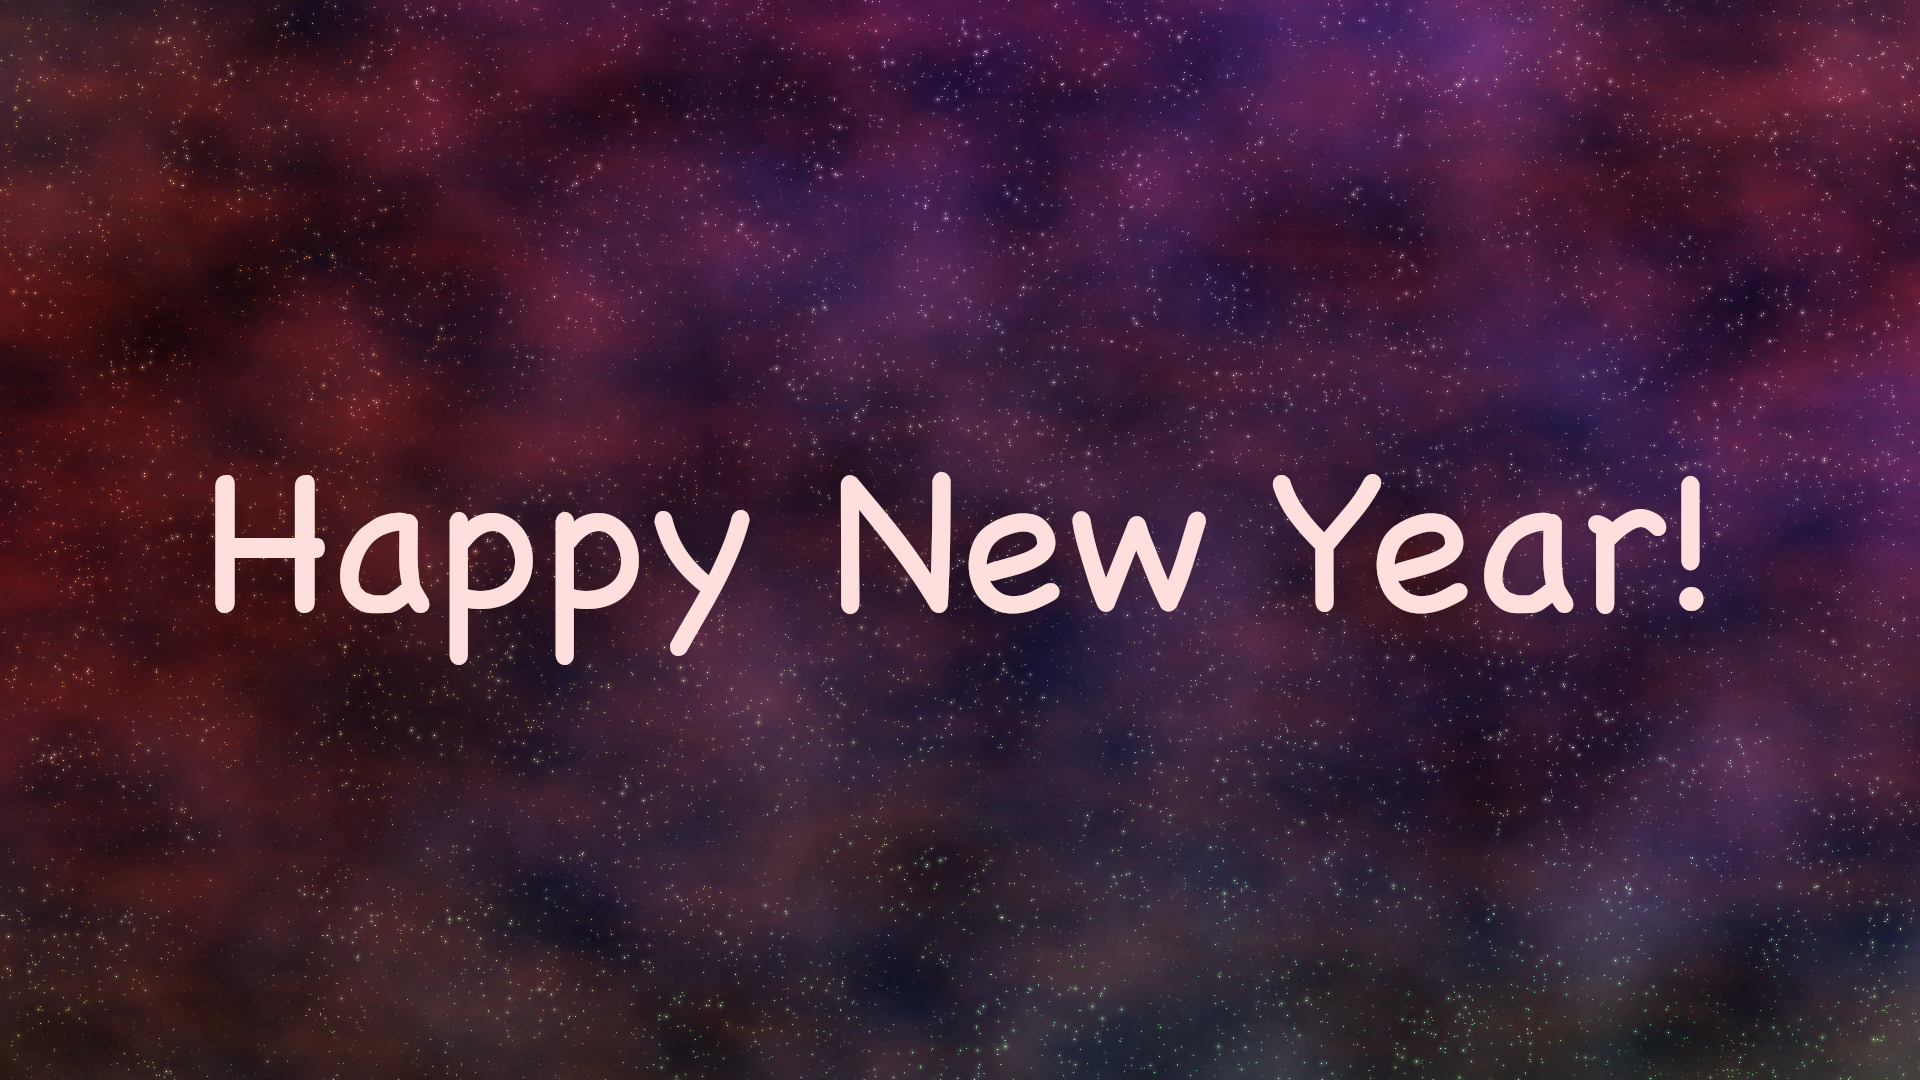
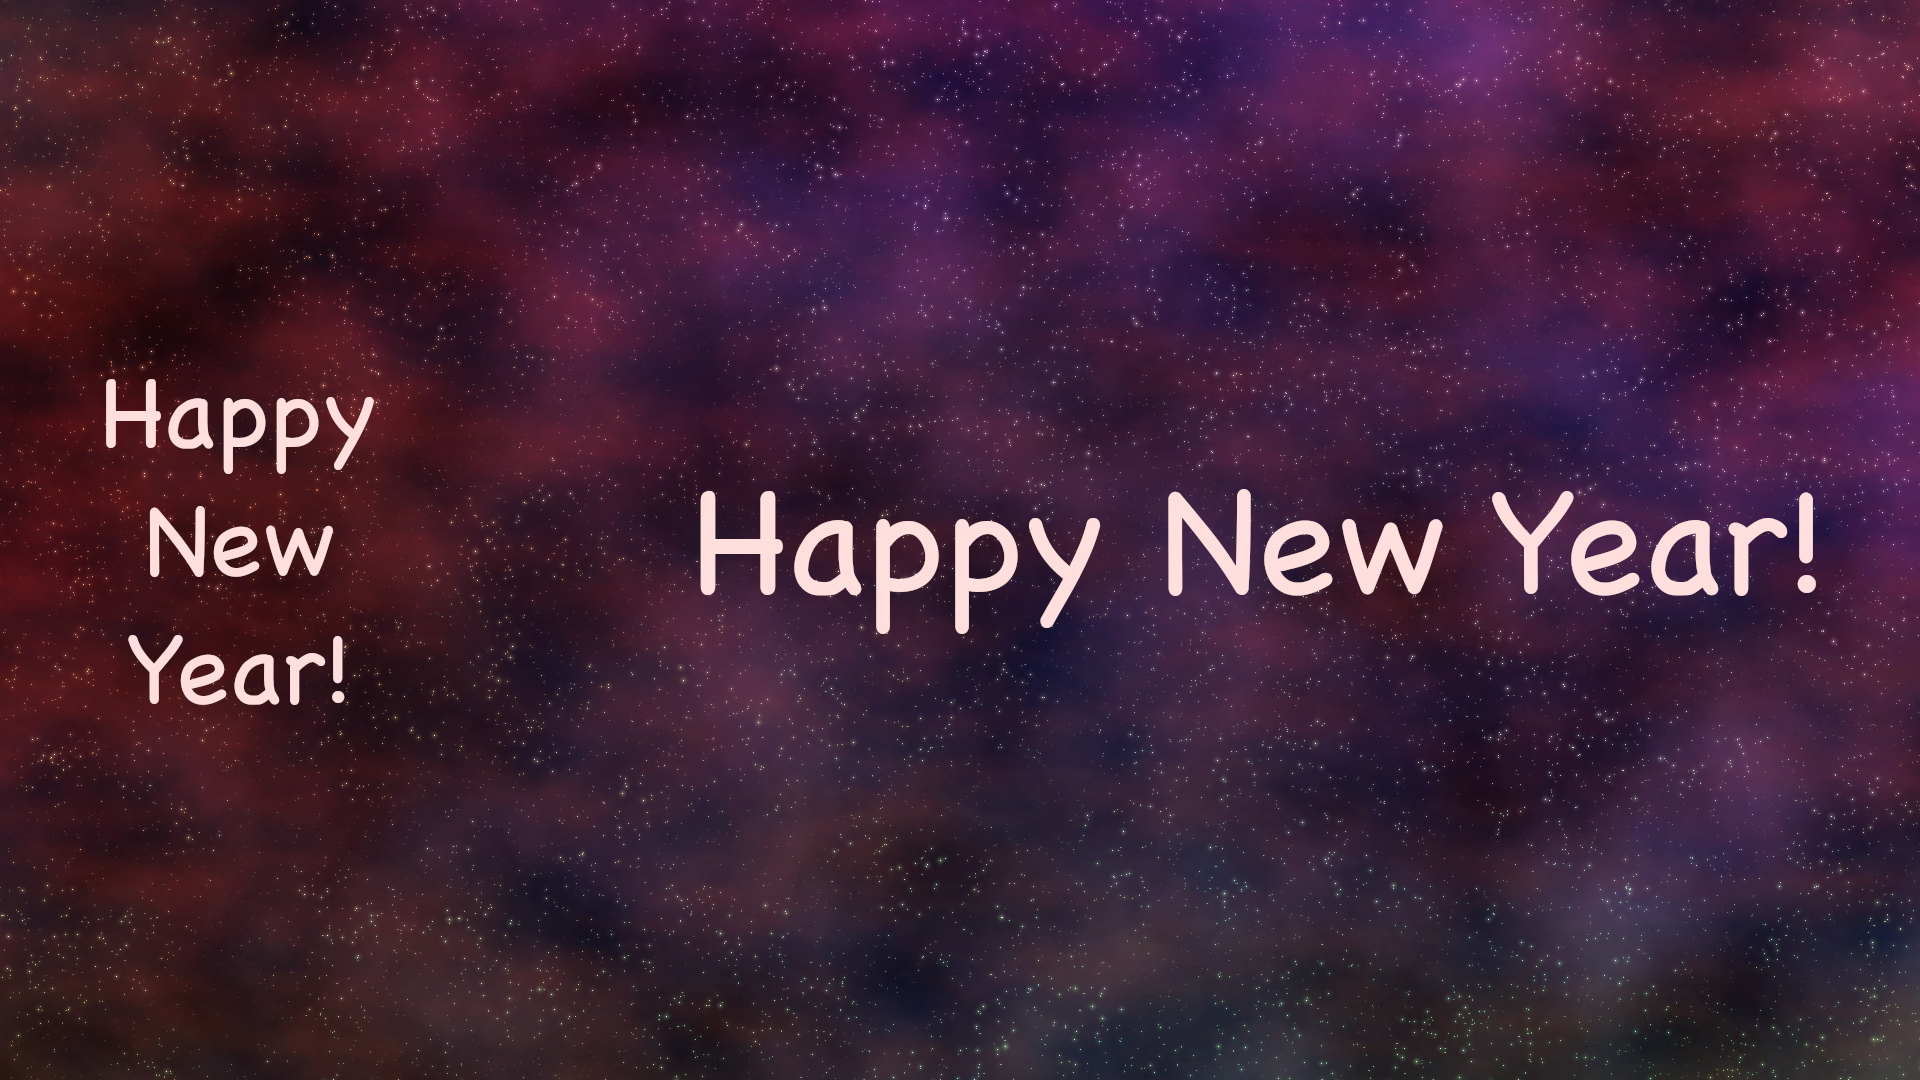
mobile fix again?

Changed region(s): [[0.0312, 0.3667, 0.9688, 0.6722]]

diff --git a/src/index.js b/src/index.js
@@ -44,8 +44,9 @@ function initializeBody() {
 
 	document.body.style.backgroundColor = "#FFDEDEFF";
 	document.body.style.backgroundImage = "url(./src/HNY2025.png)";
-	document.body.style.backgroundSize = "100%";
+	document.body.style.backgroundSize = "cover";
 	document.body.style.backgroundBlendMode = "lighten";
+	document.body.style.backgroundRepeat = "no-repeat";
 	document.body.style.color = "black";
 }
 
